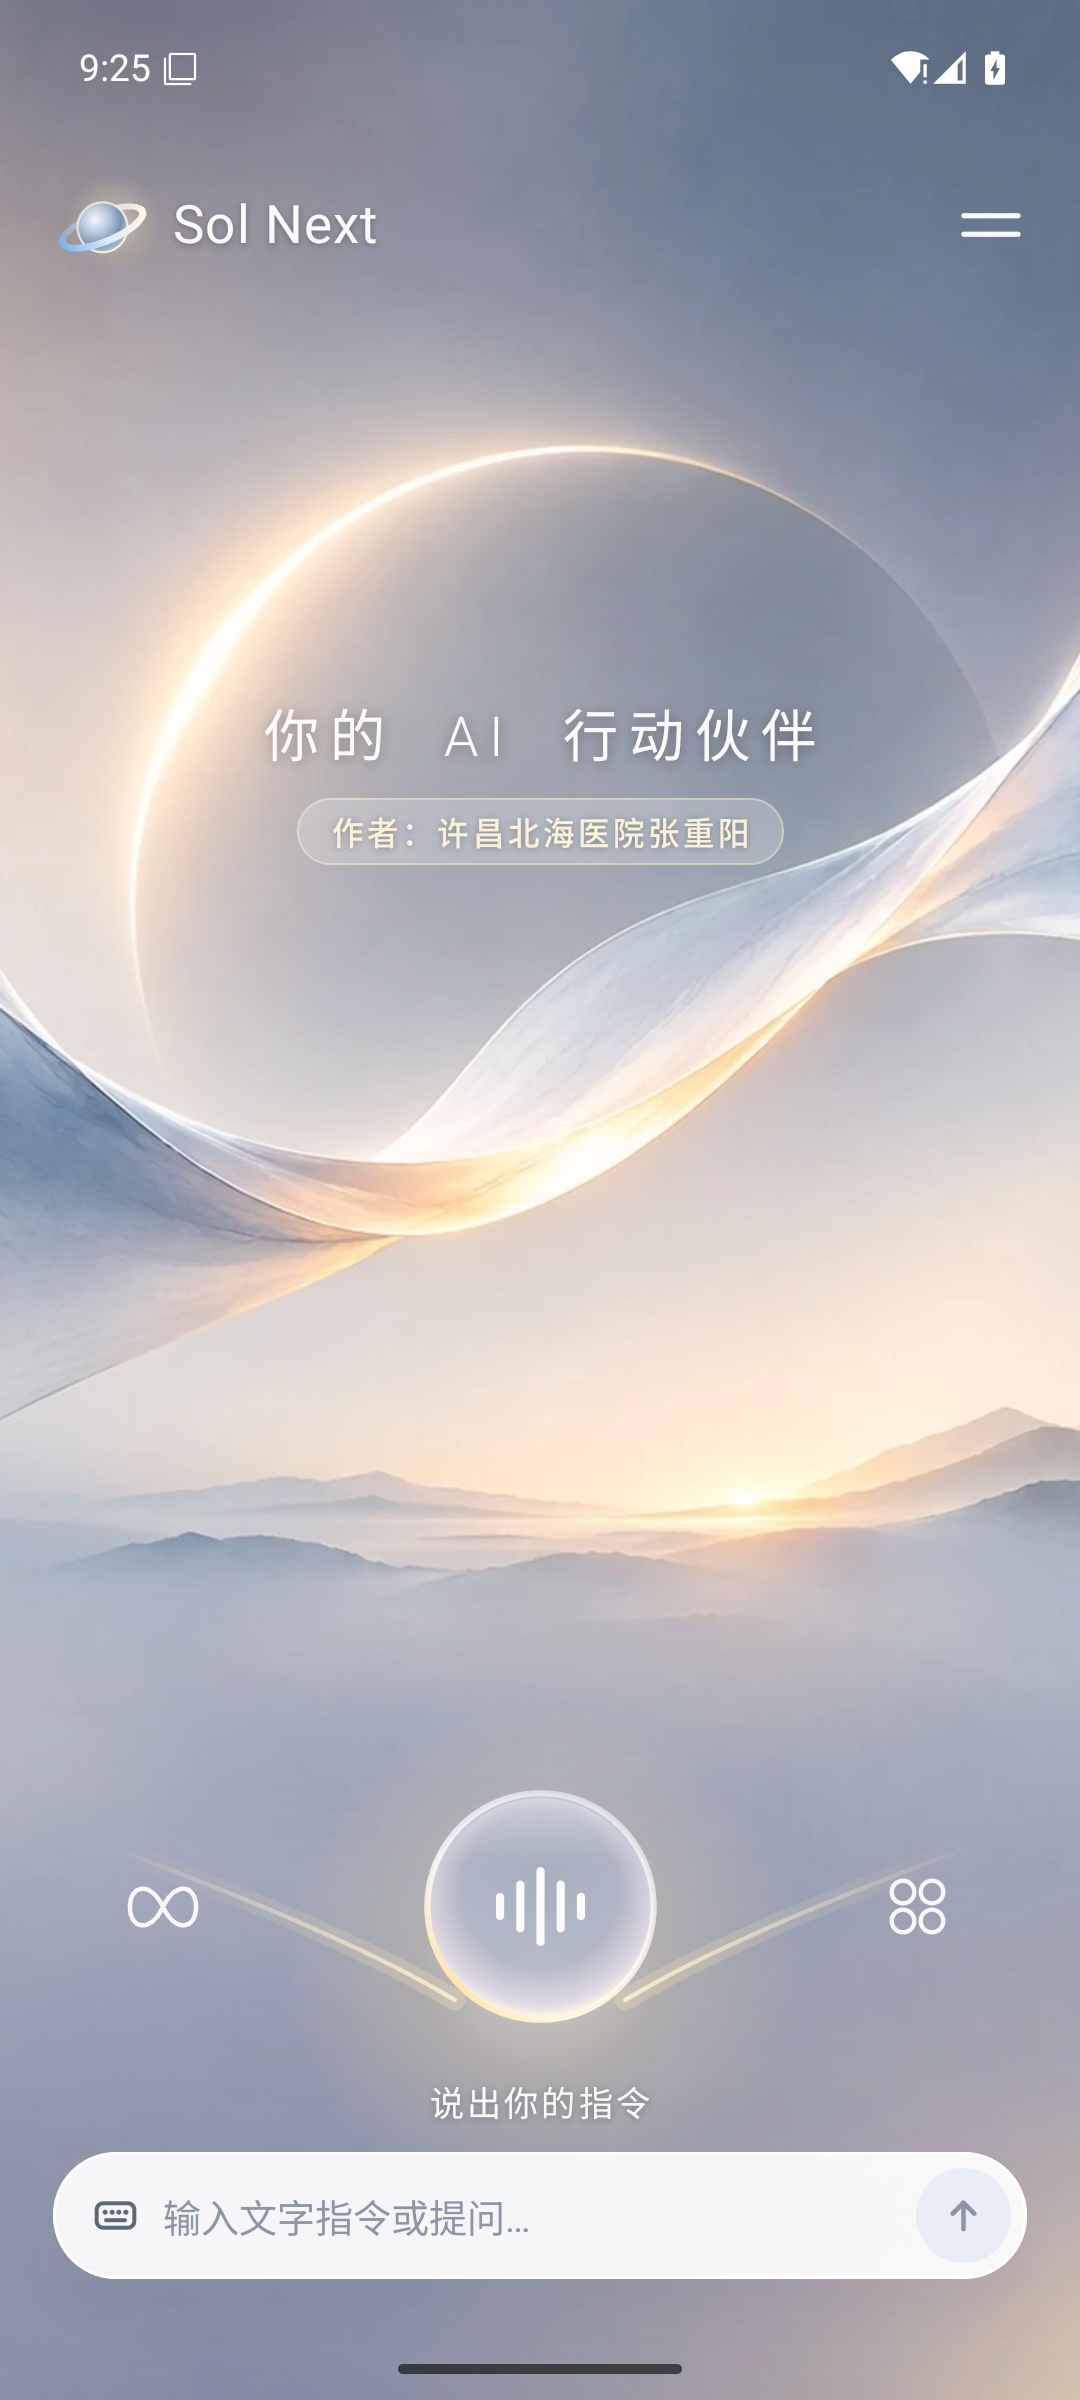
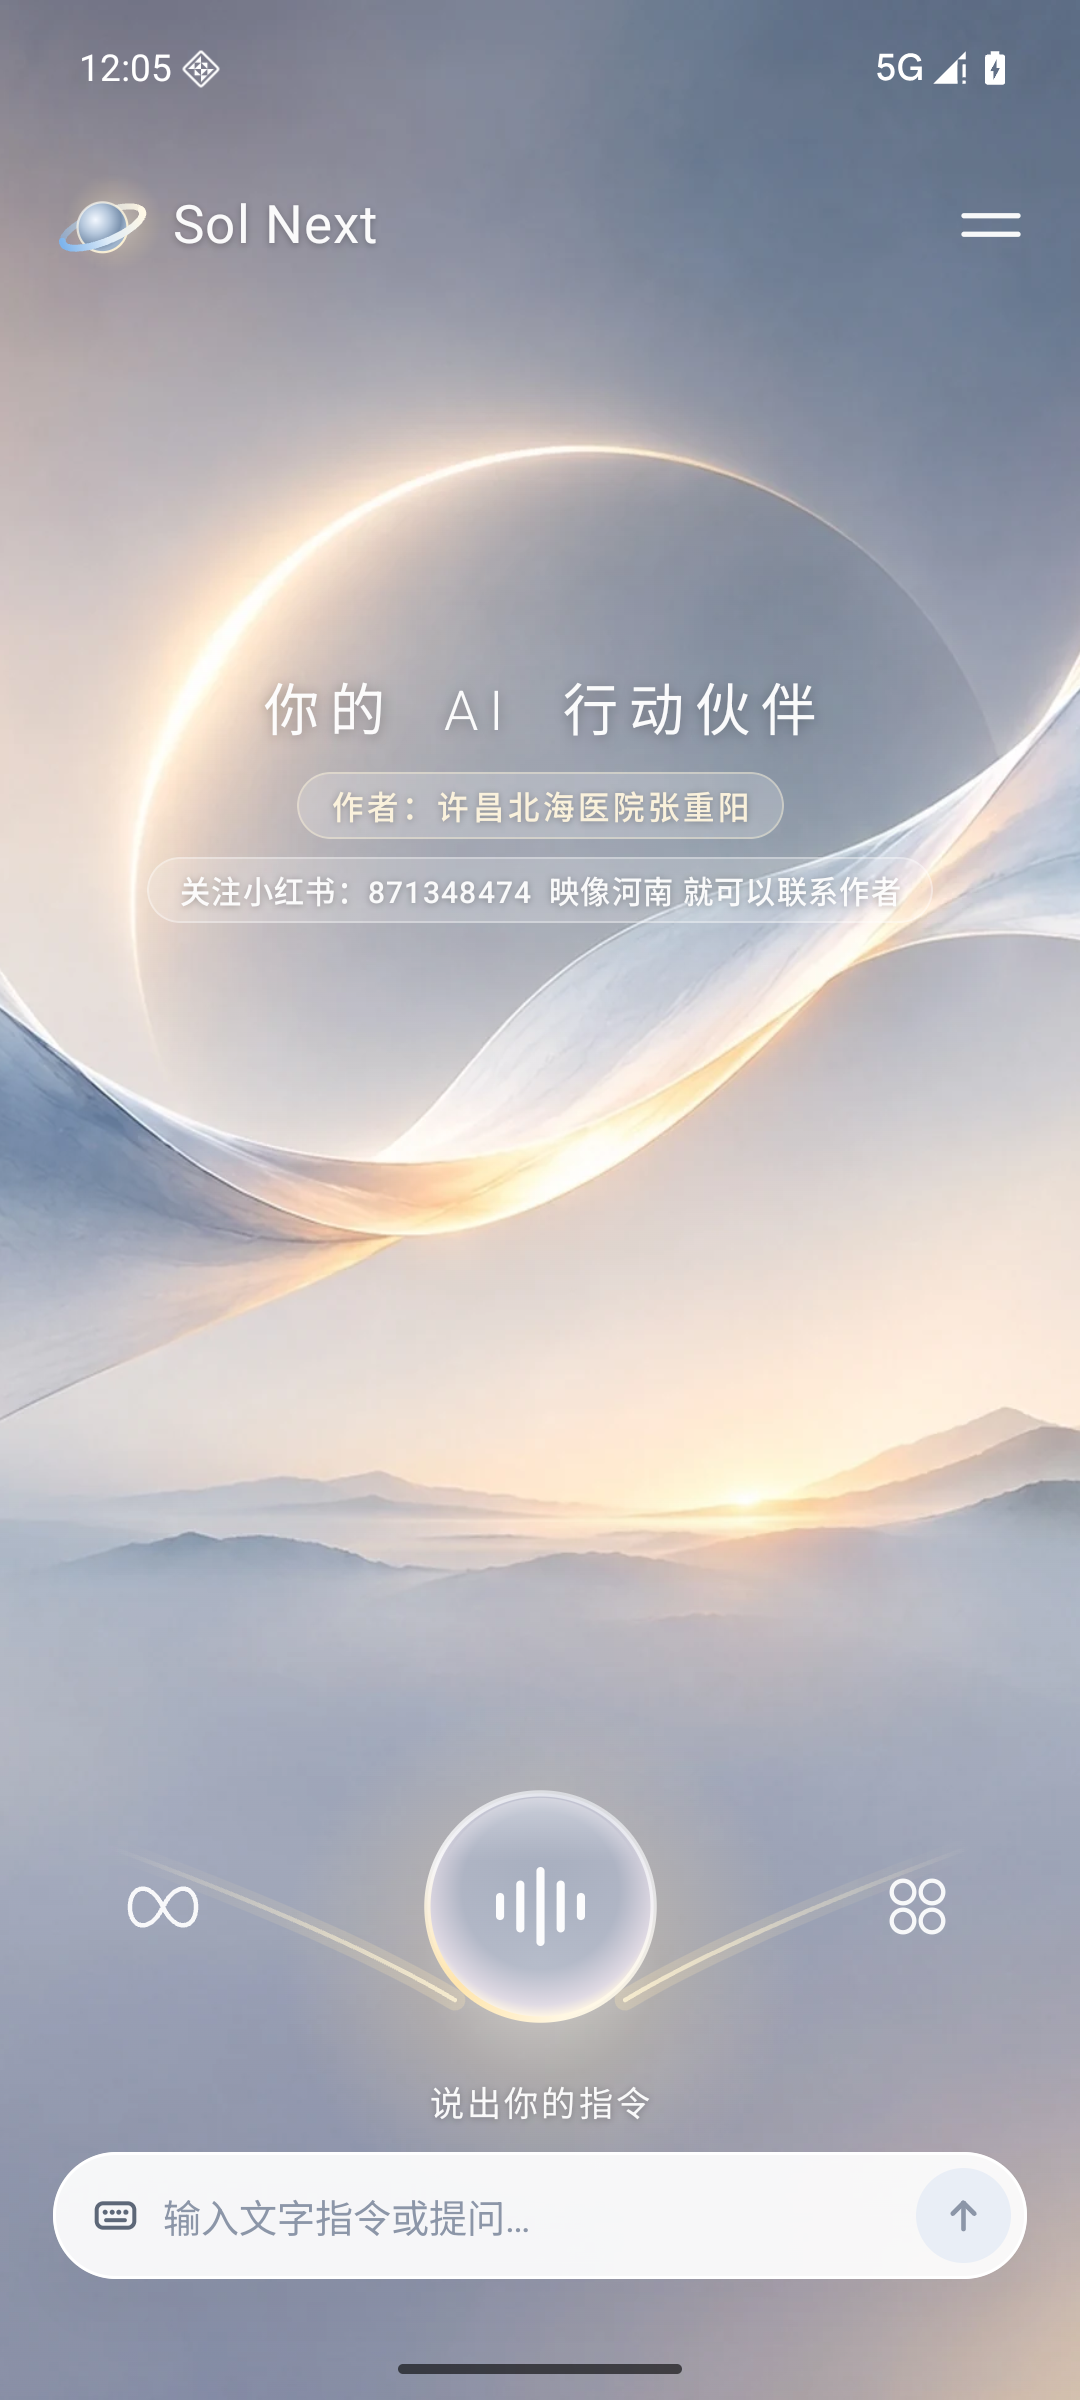
chore(v9.0.2-public): add Xiaohongshu contact pill on App Home Screen & sync docs/index.html + SHA256

Changed region(s): [[0.1833, 0.2812, 0.825, 0.375], [0.0917, 0.0, 0.2139, 0.0312], [0.825, 0.0, 0.8556, 0.0312]]

diff --git a/docs/index.html b/docs/index.html
@@ -3,10 +3,10 @@
 <head>
   <meta charset="UTF-8" />
   <meta name="viewport" content="width=device-width, initial-scale=1.0" />
-  <title>Sol Next 9.0.1 — 晨曦轨道 · 你的实时语音 AI 行动伙伴 (Android 16/17 AI Mobile Agent)</title>
-  <meta name="description" content="Sol Next 9.0.1 (Build 901) 晨曦轨道全新跨代版本：全双工实时语音主屏（零文字输入框）、可视化任务步骤与时间线、AI 实时通话与反诈盾、Android 17 Generative UI & Magic Cue & AppFunctions、4 指并发真人级游戏操控、任意云端模型 BYOK、端侧隐私防火墙与全自动 OTA。" />
+  <title>Sol Next 9.0.2 — 晨曦轨道 · 你的实时语音 AI 行动伙伴 (Android 16/17 AI Mobile Agent)</title>
+  <meta name="description" content="Sol Next 9.0.2 (Build 902) 晨曦轨道全新跨代版本：全双工实时语音主屏（零文字输入框）、可视化任务步骤与时间线、AI 实时通话与反诈盾、Android 17 Generative UI & Magic Cue & AppFunctions、4 指并发真人级游戏操控、任意云端模型 BYOK、端侧隐私防火墙与全自动 OTA。" />
   <meta property="og:type" content="website" />
-  <meta property="og:title" content="Sol Next 9.0.1 — Dawn Orbit · Your Voice-First AI Action Partner" />
+  <meta property="og:title" content="Sol Next 9.0.2 — Dawn Orbit · Your Voice-First AI Action Partner" />
   <meta property="og:description" content="Voice-first 4-screen Dawn Orbit UI · Android 16/17 Generative UI, Magic Cue & AppFunctions · 4-finger real-time gaming · Universal BYOK · On-device Privacy Firewall · Auto-OTA." />
   <meta property="og:image" content="https://chongyangzhang92-hub.github.io/Sol-Next/media/v901/hero-banner-901.png" />
   <meta name="twitter:card" content="summary_large_image" />
@@ -86,7 +86,7 @@
 <body>
   <div class="wrap">
     <nav class="nav">
-      <div class="brand">Sol Next <span class="badge">v9.0.1 · 作者：许昌北海医院张重阳</span></div>
+      <div class="brand">Sol Next <span class="badge">v9.0.2 · 作者：许昌北海医院张重阳</span></div>
       <div class="nav-links">
         <a href="#screens">四屏实拍</a>
         <a href="#features">六大突破</a>
@@ -95,15 +95,15 @@
       </div>
     </nav>
 
-    <img class="hero-img" src="media/v901/hero-banner-901.png" alt="Sol Next 9.0.1 Dawn Orbit Product Showcase" />
+    <img class="hero-img" src="media/v901/hero-banner-901.png" alt="Sol Next 9.0.2 Dawn Orbit Product Showcase" />
 
     <section class="hero-copy">
       <h1>你的实时语音与文字 AI 行动伙伴</h1>
-      <p style="font-weight: 600; color: var(--blue); margin-bottom: 12px;">作者：许昌北海医院张重阳 &nbsp;·&nbsp; 关注小红书：871348474 映像河南 即可联系作者</p>
-      <p>Sol Next 9.0.1 融合全新「晨曦轨道」极简四屏语音 + 文字双模交互、OS 自动识别启动满血引导（鸿蒙自动免无线调试）、Shell 助手高清内录 AI 接打电话、任务常亮屏与防误触保护层、付款/微信等敏感操作默认询问确认护栏、112ms 端侧神经语音合成与任意云端模型 BYOK，真正做到零学习成本、安全好用。</p>
+      <p style="font-weight: 600; color: var(--blue); margin-bottom: 12px;">作者：许昌北海医院张重阳 &nbsp;·&nbsp; 关注小红书：871348474  映像河南 就可以联系作者</p>
+      <p>Sol Next 9.0.2 融合全新「晨曦轨道」极简四屏语音 + 文字双模交互、OS 自动识别启动满血引导（鸿蒙自动免无线调试）、Shell 助手高清内录 AI 接打电话、任务常亮屏与防误触保护层、付款/微信等敏感操作默认询问确认护栏、112ms 端侧神经语音合成与任意云端模型 BYOK，真正做到零学习成本、安全好用。</p>
       <div class="cta-row">
-        <a class="btn btn-primary" href="https://github.com/chongyangzhang92-hub/Sol-Next/releases/download/v9.0.1-public/Sol-Next-v9.0.1-public-arm64.apk">⬇ 下载 v9.0.1 公开版 (ARM64 · 零内置 Key)</a>
-        <a class="btn btn-secondary" href="https://github.com/chongyangzhang92-hub/Sol-Next/releases/download/v9.0.1-public/Sol-Next-v9.0.1-public-universal.apk">下载全架构通用版 (Universal)</a>
+        <a class="btn btn-primary" href="https://github.com/chongyangzhang92-hub/Sol-Next/releases/download/v9.0.2-public/Sol-Next-v9.0.2-public-arm64.apk">⬇ 下载 v9.0.2 公开版 (ARM64 · 零内置 Key)</a>
+        <a class="btn btn-secondary" href="https://github.com/chongyangzhang92-hub/Sol-Next/releases/download/v9.0.2-public/Sol-Next-v9.0.2-public-universal.apk">下载全架构通用版 (Universal)</a>
         <a class="btn btn-secondary" href="https://github.com/chongyangzhang92-hub/Sol-Next">查看 GitHub 仓库</a>
       </div>
     </section>
@@ -182,7 +182,7 @@
 
     <footer>
       <p><strong>作者：许昌北海医院张重阳</strong> · 关注小红书：871348474 映像河南 就可以联系作者</p>
-      <p style="margin-top:6px;">Sol Next 9.0.1 (Build 901) · Apache-2.0 · 公开版 100% 零内置密钥 · 致敬开源先驱 <a href="https://github.com/wangzan101/Mika">wangzan101/Mika</a></p>
+      <p style="margin-top:6px;">Sol Next 9.0.2 (Build 902) · Apache-2.0 · 公开版 100% 零内置密钥 · 致敬开源先驱 <a href="https://github.com/wangzan101/Mika">wangzan101/Mika</a></p>
     </footer>
   </div>
 </body>

diff --git a/README.md b/README.md
@@ -10,9 +10,9 @@
 
 ### 用自然对话与文字，驱动真实的手机行动 · 率先落地 Android 16/17 智能 OS 架构
 
-> **👨💻 作者：许昌北海医院张重阳** &nbsp;·&nbsp; **📕 联系作者：关注小红书 `871348474`（映像河南）**
+> **👨💻 作者：许昌北海医院张重阳** &nbsp;·&nbsp; **📕 关注小红书：`871348474` 映像河南 就可以联系作者**
 
-<sub>全新 <code>9.0.2</code> 跨代架构（Build <code>901</code> · Android 10–16 / 16KB 页对齐 · 自动识别鸿蒙系统免无线调试 · 100% 零内置密钥 / 任意云端模型 BYOK · 致敬先驱 <code>wangzan101/Mika</code>）</sub>
+<sub>全新 <code>9.0.2</code> 跨代架构（Build <code>902</code> · Android 10–16 / 16KB 页对齐 · 自动识别鸿蒙系统免无线调试 · 100% 零内置密钥 / 任意云端模型 BYOK · 致敬先驱 <code>wangzan101/Mika</code>）</sub>
 
 <br/><br/>
 
@@ -32,7 +32,7 @@
 
 ![Author](https://img.shields.io/badge/作者-许昌北海医院张重阳-D9A441?style=flat-square)
 ![Xiaohongshu](https://img.shields.io/badge/小红书-871348474%20映像河南-FF2442?style=flat-square)
-![Version 9.0.2](https://img.shields.io/badge/Release-v9.0.2--public%20(Build%20901)-3E78E0?style=flat-square)
+![Version 9.0.2](https://img.shields.io/badge/Release-v9.0.2--public%20(Build%20902)-3E78E0?style=flat-square)
 ![Voice And Text](https://img.shields.io/badge/交互范式-全双工实时语音%20%2B%20晨曦文字输入-0ea5e9?style=flat-square)
 ![Execution Guard](https://img.shields.io/badge/执行护栏-任务常亮屏%20·%20防误触%20·%20付款%2F微信先问后行-10b981?style=flat-square)
 ![Android 16/17](https://img.shields.io/badge/Android%2016%2F17-GenUI%20·%20Magic%20Cue%20·%20AppFunctions-10b981?style=flat-square)
@@ -233,8 +233,8 @@ Sol Next 衷心致敬开源先驱 [wangzan101/Mika](https://github.com/wangzan10
 3. **SHA-256 校验与零内置密钥审计**：
 
 ```text
-f17fb2091ead8e33adaa69d3b071f2d7a6d09b51c758f3996c389298b1851932  Sol-Next-v9.0.2-public-arm64.apk
-c7fb75796ac169e9ac3a5dcca7667fd6afac6ef63879a01da806a974da3ef795  Sol-Next-v9.0.2-public-universal.apk
+ee3a0fb931703d168fe93d4d8ea7dbc113b325d65d4bcdc67af8e925ce10d00f  Sol-Next-v9.0.2-public-arm64.apk
+d0f7e126b23d25db5232191e15b1a01a7180c9eca1d4661f7ee424d9391c43cf  Sol-Next-v9.0.2-public-universal.apk
 ```
 
 ```bash

diff --git a/README.en.md b/README.en.md
@@ -10,9 +10,9 @@
 
 ### Speak or Type Naturally. Drive Real Mobile Actions. Built for the Android 16/17 Intelligent OS Era.
 
-> **👨💻 Author: 许昌北海医院张重阳 (Zhang Chongyang, Xuchang Beihai Hospital)** &nbsp;·&nbsp; **📕 Xiaohongshu (RedNote): `871348474` (映像河南)**
+> **👨💻 Author: 许昌北海医院张重阳 (Zhang Chongyang, Xuchang Beihai Hospital)** &nbsp;·&nbsp; **📕 Contact Author: Follow Xiaohongshu (RedNote) `871348474` (映像河南)**
 
-<sub>Next-Generation Voice + Text Android 10–16 OS Agent (Build <code>901</code> · 16KB Page-Aligned · Auto-Detects HarmonyOS to Skip Wireless Debugging · Keep-Screen-On &amp; Touch Guard · Sensitive Payment/WeChat Confirmation Gate · 100% Zero Built-In Keys / Universal BYOK · Tribute to <code>wangzan101/Mika</code>)</sub>
+<sub>Next-Generation Voice + Text Android 10–16 OS Agent (Build <code>902</code> · 16KB Page-Aligned · Auto-Detects HarmonyOS to Skip Wireless Debugging · Keep-Screen-On &amp; Touch Guard · Sensitive Payment/WeChat Confirmation Gate · 100% Zero Built-In Keys / Universal BYOK · Tribute to <code>wangzan101/Mika</code>)</sub>
 
 <br/><br/>
 
